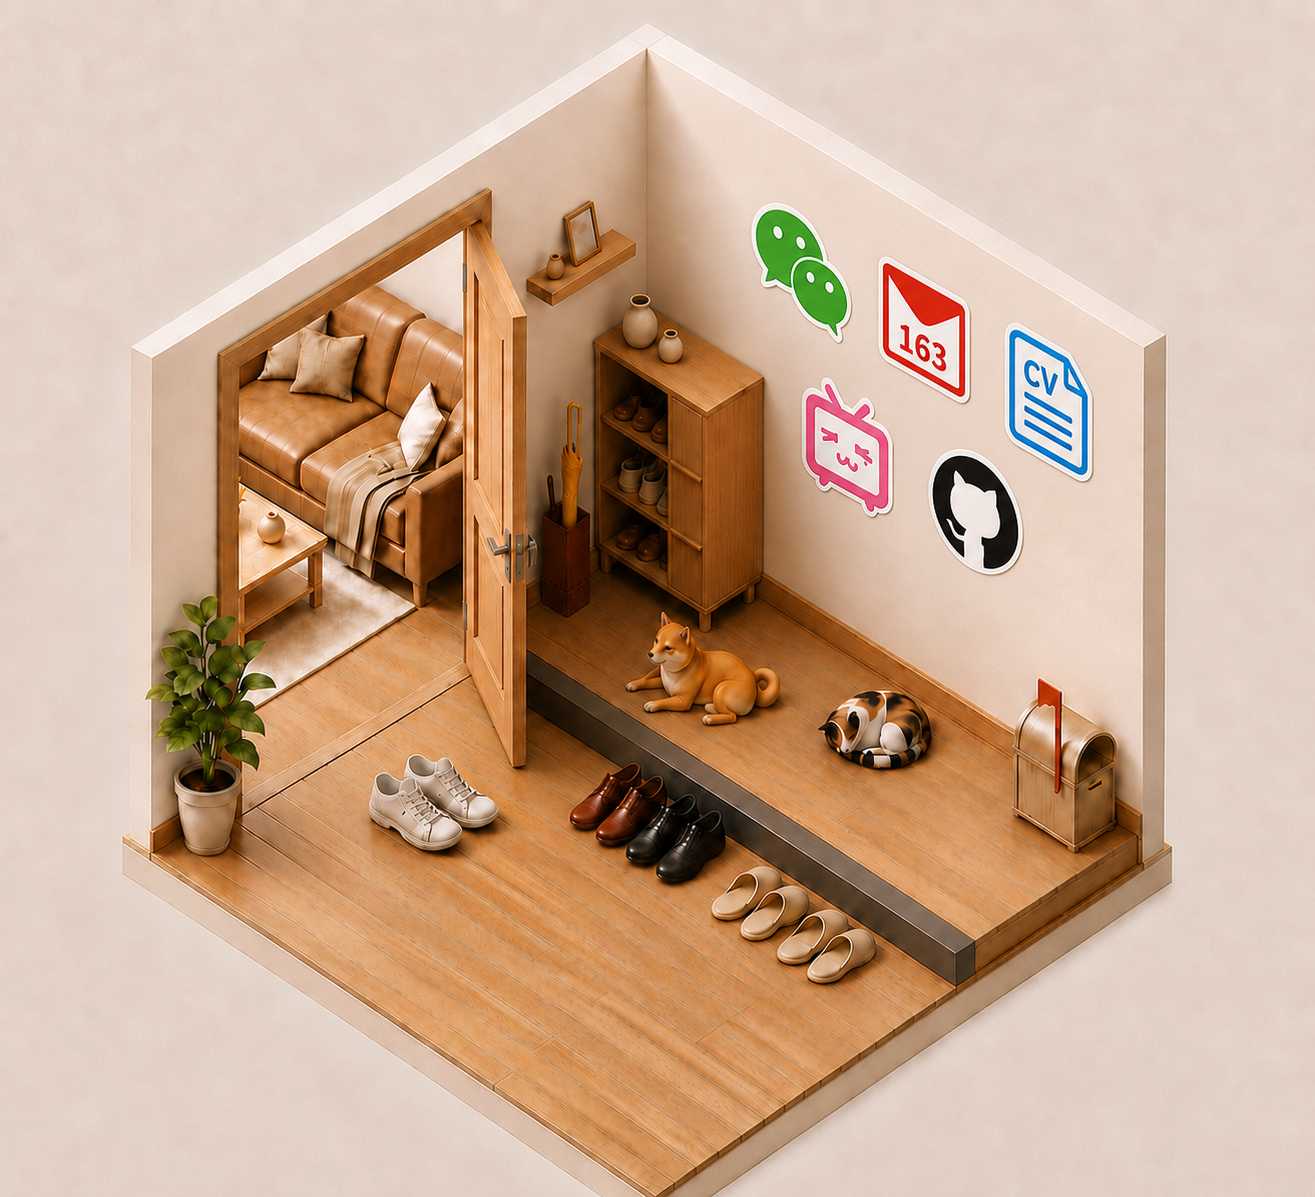
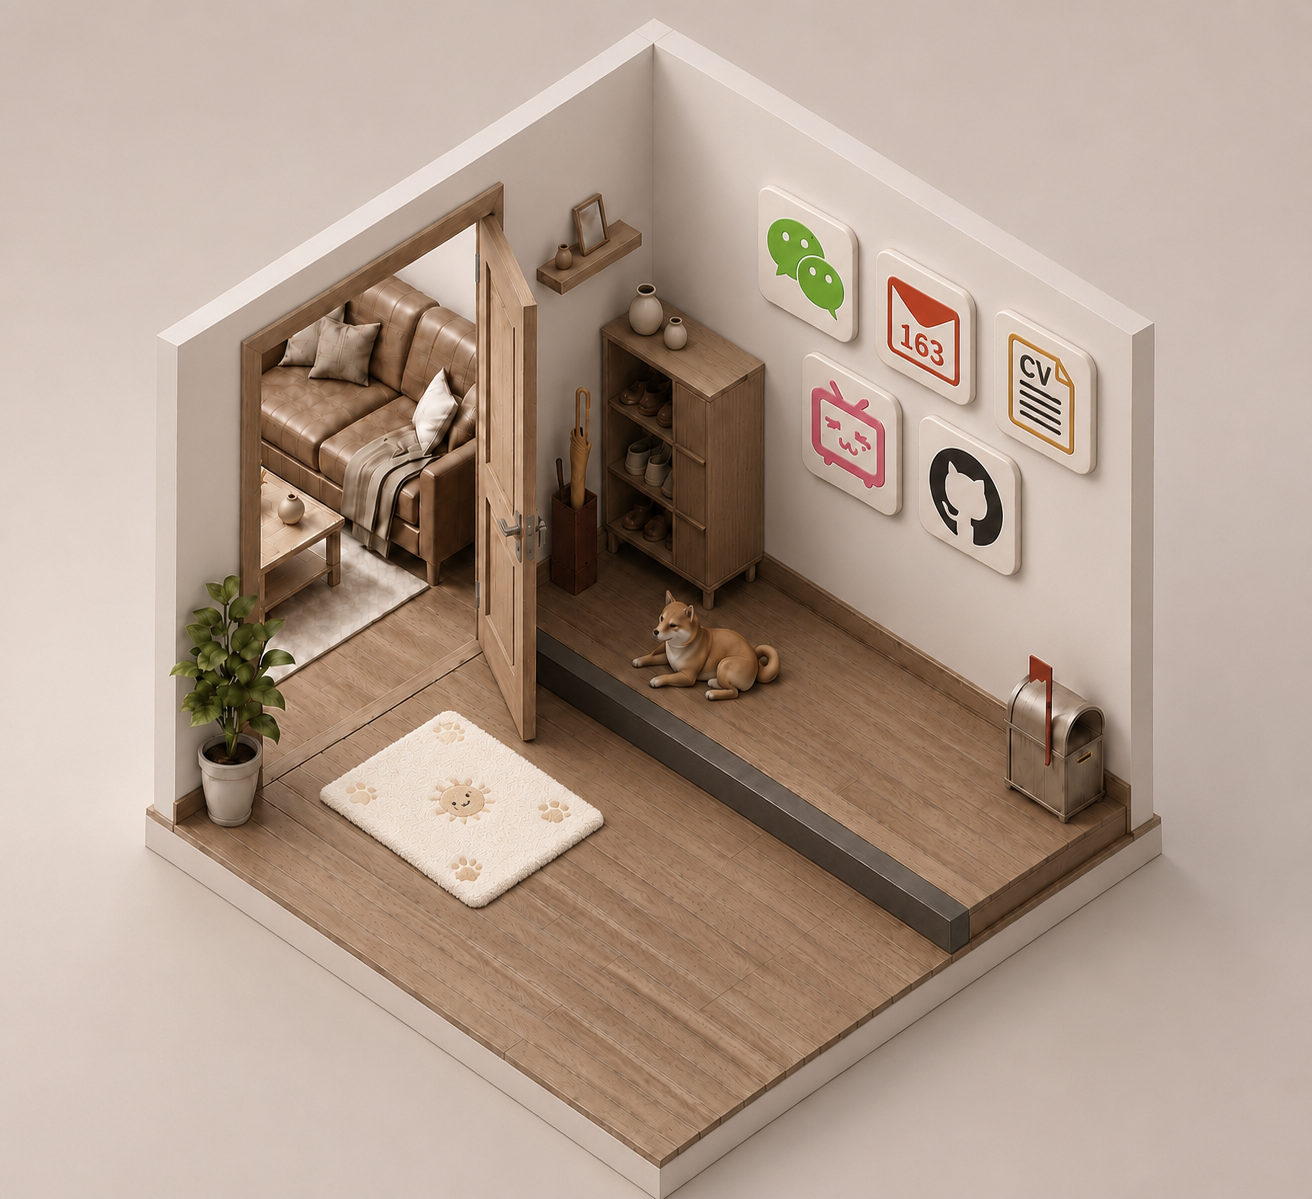
Update doorstep house photo

diff --git a/scripts/rooms-data.js b/scripts/rooms-data.js
@@ -15,10 +15,11 @@ export const PORTFOLIO = {
 
 // Hotspots use the overview image's 1487 x 1058 coordinate space so they stay
 // aligned at every rendered size. The same paths also drive the focus clipPath.
-// Doorstep paths use the current 1315 x 1197 source coordinates. Each outline
+// Doorstep paths use the current 1312 x 1199 source coordinates. Each outline
 // drives both hit testing and the matching edge glow.
-const DOORSTEP_DOG_OUTLINE = "M 667 609 C 676 604 688 609 696 620 C 703 628 713 635 723 640 C 736 642 748 646 757 652 C 765 642 777 640 783 649 C 790 659 784 672 770 679 C 766 693 752 704 734 710 C 718 716 702 717 690 714 L 664 708 C 651 711 636 708 628 702 C 622 697 624 692 632 688 C 626 684 625 678 629 673 C 634 667 642 663 649 657 C 647 647 651 638 659 631 C 663 624 661 615 667 609 Z";
-const DOORSTEP_CAT_OUTLINE = "M 874 688 C 886 684 898 687 908 696 C 921 698 933 705 940 716 C 947 728 947 743 939 754 C 932 765 917 772 900 774 C 881 777 858 774 842 766 C 831 761 824 754 826 746 C 816 741 812 735 816 728 C 820 720 831 715 841 712 C 846 702 857 694 874 688 Z";
+const DOORSTEP_DOG_OUTLINE = "M 668 590 C 677 585 689 590 697 601 C 704 609 714 616 724 621 C 737 623 749 627 758 633 C 766 623 778 621 784 630 C 791 640 785 653 771 660 C 767 674 753 685 735 691 C 719 697 703 698 691 695 L 665 689 C 652 692 637 689 629 683 C 623 678 625 673 633 669 C 627 665 626 659 630 654 C 635 648 643 644 650 638 C 648 628 652 619 660 612 C 664 605 662 596 668 590 Z";
+const DOORSTEP_EMAIL_OUTLINE = "M 875 250 L 966 278 C 974 281 978 289 977 299 L 969 391 C 968 402 961 408 951 405 L 882 384 C 875 382 871 374 872 364 L 875 266 C 875 258 878 252 875 250 Z";
+const DOORSTEP_RESUME_OUTLINE = "M 1005 307 L 1087 336 C 1095 339 1099 347 1098 358 L 1087 457 C 1086 468 1079 474 1069 472 L 1004 453 C 997 451 993 444 994 435 L 999 322 C 999 314 1001 309 1005 307 Z";
 export const ROOMS = [
   {
     id: "garden",
@@ -952,8 +953,8 @@ export const ROOMS = [
     number: "05",
     title: "Doorstep",
     path: "/rooms/doorstep",
-    image: "/assets/rooms/doorstep-house-contact-transparent.png",
-    alt: "暖色等距视角门廊小屋，包含开放木门、鞋柜、联系图标、小狗和小猫",
+    image: "/assets/rooms/doorstep-house-contact-transparent.png?v=2",
+    alt: "暖色等距视角门廊小屋，包含开放木门、鞋柜、联系图标、小狗和地垫",
     description: "A quiet goodbye at the doorstep.",
     isDoorstep: true,
     projects: [],
@@ -966,8 +967,8 @@ export const ROOMS = [
         ariaLabel: "复制邮箱 15945158337@163.com",
         copyValue: "15945158337@163.com",
         copySuccessMessage: "邮箱已复制",
-        path: "M 882 251 L 965 280 L 968 385 C 968 396 960 404 950 401 L 886 378 C 878 375 874 367 874 357 L 875 267 C 875 258 878 253 882 251 Z",
-        glowPath: "M 882 251 L 965 280 L 968 385 C 968 396 960 404 950 401 L 886 378 C 878 375 874 367 874 357 L 875 267 C 875 258 878 253 882 251 Z",
+        path: DOORSTEP_EMAIL_OUTLINE,
+        glowPath: DOORSTEP_EMAIL_OUTLINE,
       },
       {
         id: "doorstep-dog",
@@ -983,14 +984,13 @@ export const ROOMS = [
       {
         id: "doorstep-cat",
         number: "03",
-        label: "小猫简历",
-        ariaLabel: "下载简历 PDF",
         downloadUrl: "/assets/resume.pdf",
         downloadFilename: "杨昕乔-简历.pdf",
         downloadSuccessMessage: "下载简历",
-        // Follows the red hand-drawn cat outline in 579 2.jpg.
-        path: DOORSTEP_CAT_OUTLINE,
-        glowPath: DOORSTEP_CAT_OUTLINE,
+        label: "简历",
+        ariaLabel: "下载简历 PDF",
+        path: DOORSTEP_RESUME_OUTLINE,
+        glowPath: DOORSTEP_RESUME_OUTLINE,
       },
     ],
     hotspotPath: "M 0 0 Z",

diff --git a/rooms/doorstep/index.html b/rooms/doorstep/index.html
@@ -1,1 +1,1 @@
-<!doctype html><html lang="zh-CN"><head><meta charset="utf-8"><meta name="viewport" content="width=device-width,initial-scale=1"><meta name="theme-color" content="#ebe6de"><title>门廊 — 杨昕乔 Portfolio</title><link rel="preload" as="image" href="/assets/rooms/doorstep-house-contact-transparent.png?v=1" fetchpriority="high"><link rel="preload" as="image" href="/assets/rooms/doorstep-personal.jpg?v=1" fetchpriority="high"><link rel="stylesheet" href="/styles/portfolio.css?v=153"></head><body><div id="app"></div><script type="module" src="/scripts/app.js?v=143"></script></body></html>
+<!doctype html><html lang="zh-CN"><head><meta charset="utf-8"><meta name="viewport" content="width=device-width,initial-scale=1"><meta name="theme-color" content="#ebe6de"><title>门廊 — 杨昕乔 Portfolio</title><link rel="preload" as="image" href="/assets/rooms/doorstep-house-contact-transparent.png?v=2" fetchpriority="high"><link rel="preload" as="image" href="/assets/rooms/doorstep-personal.jpg?v=1" fetchpriority="high"><link rel="stylesheet" href="/styles/portfolio.css?v=154"></head><body><div id="app"></div><script type="module" src="/scripts/app.js?v=144"></script></body></html>

diff --git a/rooms/garden/index.html b/rooms/garden/index.html
@@ -1,1 +1,1 @@
-<!doctype html><html lang="en"><head><meta charset="utf-8"><meta name="viewport" content="width=device-width,initial-scale=1"><meta name="theme-color" content="#f1f0eb"><title>Garden — 杨昕乔 Portfolio</title><link rel="preload" as="image" href="/assets/rooms/doorstep-house-contact-transparent.png?v=1" fetchpriority="low"><link rel="stylesheet" href="/styles/portfolio.css?v=153"></head><body><div id="app"></div><script type="module" src="/scripts/app.js?v=143"></script></body></html>
+<!doctype html><html lang="en"><head><meta charset="utf-8"><meta name="viewport" content="width=device-width,initial-scale=1"><meta name="theme-color" content="#f1f0eb"><title>Garden — 杨昕乔 Portfolio</title><link rel="preload" as="image" href="/assets/rooms/doorstep-house-contact-transparent.png?v=2" fetchpriority="low"><link rel="stylesheet" href="/styles/portfolio.css?v=154"></head><body><div id="app"></div><script type="module" src="/scripts/app.js?v=144"></script></body></html>

diff --git a/scripts/app.js b/scripts/app.js
@@ -7,7 +7,7 @@ import {
   SHOW_HOTSPOTS,
   adjacentPages,
   roomFromPath,
-} from "/scripts/rooms-data.js?v=97";
+} from "/scripts/rooms-data.js?v=98";
 
 const PAGE_FADE_TIMING = { exit: 240, enter: 360 };
 const REDUCED_PAGE_FADE_TIMING = { exit: 1, enter: 1 };
@@ -133,7 +133,7 @@ app.innerHTML = `
                 </g>
               `)).join("")}
             </svg>
-            <svg class="doorstep-object-map" viewBox="0 0 1315 1197" preserveAspectRatio="none" aria-label="Clickable doorstep objects">
+            <svg class="doorstep-object-map" viewBox="0 0 1312 1199" preserveAspectRatio="none" aria-label="Clickable doorstep objects">
               <defs>
                 <!-- Keep the doorstep path in the same warm, tight edge treatment as room objects. -->
                 <filter id="doorstep-room-object-edge-glow-tight" x="-20%" y="-25%" width="140%" height="150%" color-interpolation-filters="sRGB">

diff --git a/rooms/living/index.html b/rooms/living/index.html
@@ -1,1 +1,1 @@
-<!doctype html><html lang="en"><head><meta charset="utf-8"><meta name="viewport" content="width=device-width,initial-scale=1"><meta name="theme-color" content="#f1f0eb"><title>Living Room — 杨昕乔 Portfolio</title><link rel="stylesheet" href="/styles/portfolio.css?v=153"></head><body><div id="app"></div><script type="module" src="/scripts/app.js?v=143"></script></body></html>
+<!doctype html><html lang="en"><head><meta charset="utf-8"><meta name="viewport" content="width=device-width,initial-scale=1"><meta name="theme-color" content="#f1f0eb"><title>Living Room — 杨昕乔 Portfolio</title><link rel="stylesheet" href="/styles/portfolio.css?v=154"></head><body><div id="app"></div><script type="module" src="/scripts/app.js?v=144"></script></body></html>

diff --git a/rooms/kitchen/index.html b/rooms/kitchen/index.html
@@ -1,1 +1,1 @@
-<!doctype html><html lang="en"><head><meta charset="utf-8"><meta name="viewport" content="width=device-width,initial-scale=1"><meta name="theme-color" content="#f1f0eb"><title>Kitchen — 杨昕乔 Portfolio</title><link rel="stylesheet" href="/styles/portfolio.css?v=153"></head><body><div id="app"></div><script type="module" src="/scripts/app.js?v=143"></script></body></html>
+<!doctype html><html lang="en"><head><meta charset="utf-8"><meta name="viewport" content="width=device-width,initial-scale=1"><meta name="theme-color" content="#f1f0eb"><title>Kitchen — 杨昕乔 Portfolio</title><link rel="stylesheet" href="/styles/portfolio.css?v=154"></head><body><div id="app"></div><script type="module" src="/scripts/app.js?v=144"></script></body></html>

diff --git a/rooms/study/index.html b/rooms/study/index.html
@@ -1,1 +1,1 @@
-<!doctype html><html lang="en"><head><meta charset="utf-8"><meta name="viewport" content="width=device-width,initial-scale=1"><meta name="theme-color" content="#f1f0eb"><title>Study — 杨昕乔 Portfolio</title><link rel="stylesheet" href="/styles/portfolio.css?v=153"></head><body><div id="app"></div><script type="module" src="/scripts/app.js?v=143"></script></body></html>
+<!doctype html><html lang="en"><head><meta charset="utf-8"><meta name="viewport" content="width=device-width,initial-scale=1"><meta name="theme-color" content="#f1f0eb"><title>Study — 杨昕乔 Portfolio</title><link rel="stylesheet" href="/styles/portfolio.css?v=154"></head><body><div id="app"></div><script type="module" src="/scripts/app.js?v=144"></script></body></html>

diff --git a/index.html b/index.html
@@ -7,11 +7,11 @@
   <meta name="theme-color" content="#f1f0eb">
   <title>杨昕乔 — Portfolio 2026</title>
   <link rel="preload" as="image" href="/assets/rooms/home-overview-decorated.png?v=2" fetchpriority="high">
-  <link rel="stylesheet" href="/styles/portfolio.css?v=153">
+  <link rel="stylesheet" href="/styles/portfolio.css?v=154">
 </head>
 <body>
   <div id="app"></div>
   <noscript>This portfolio requires JavaScript for room navigation.</noscript>
-  <script type="module" src="/scripts/app.js?v=143"></script>
+  <script type="module" src="/scripts/app.js?v=144"></script>
 </body>
 </html>

diff --git a/styles/portfolio.css b/styles/portfolio.css
@@ -402,7 +402,7 @@ button {
   height: min(86vh, 900px);
   max-width: none;
   max-height: calc(100% - 32px);
-  aspect-ratio: 1315 / 1197;
+  aspect-ratio: 1312 / 1199;
   overflow: visible;
   opacity: 0;
   pointer-events: none;

diff --git a/scripts/extract-doorstep-house.py b/scripts/extract-doorstep-house.py
@@ -10,18 +10,18 @@ ROOT = Path(__file__).resolve().parents[1]
 SOURCE = ROOT / "assets/rooms/doorstep-house-contact-source.png"
 OUTPUT = ROOT / "assets/rooms/doorstep-house-contact-transparent.png"
 
-# Clockwise outer silhouette in the source image's 1315 x 1197 coordinates.
+# Clockwise outer silhouette in the source image's 1312 x 1199 coordinates.
 # The points sit just outside the roof, wall, and floor edges so pale structural
 # pixels remain intact while every pixel beyond the house becomes transparent.
 HOUSE_OUTLINE = (
-    (646, 18),
-    (1170, 334),
-    (1174, 878),
-    (1129, 920),
-    (616, 1204),
-    (592, 1204),
-    (116, 874),
-    (126, 344),
+    (655, 16),
+    (1160, 334),
+    (1163, 878),
+    (1122, 921),
+    (657, 1205),
+    (631, 1205),
+    (142, 875),
+    (154, 337),
 )
 
 SUPERSAMPLE = 4
@@ -29,7 +29,7 @@ SUPERSAMPLE = 4
 
 def main() -> None:
     source = Image.open(SOURCE).convert("RGBA")
-    if source.size != (1315, 1197):
+    if source.size != (1312, 1199):
         raise ValueError(f"Unexpected source size: {source.size}")
 
     mask = Image.new(
